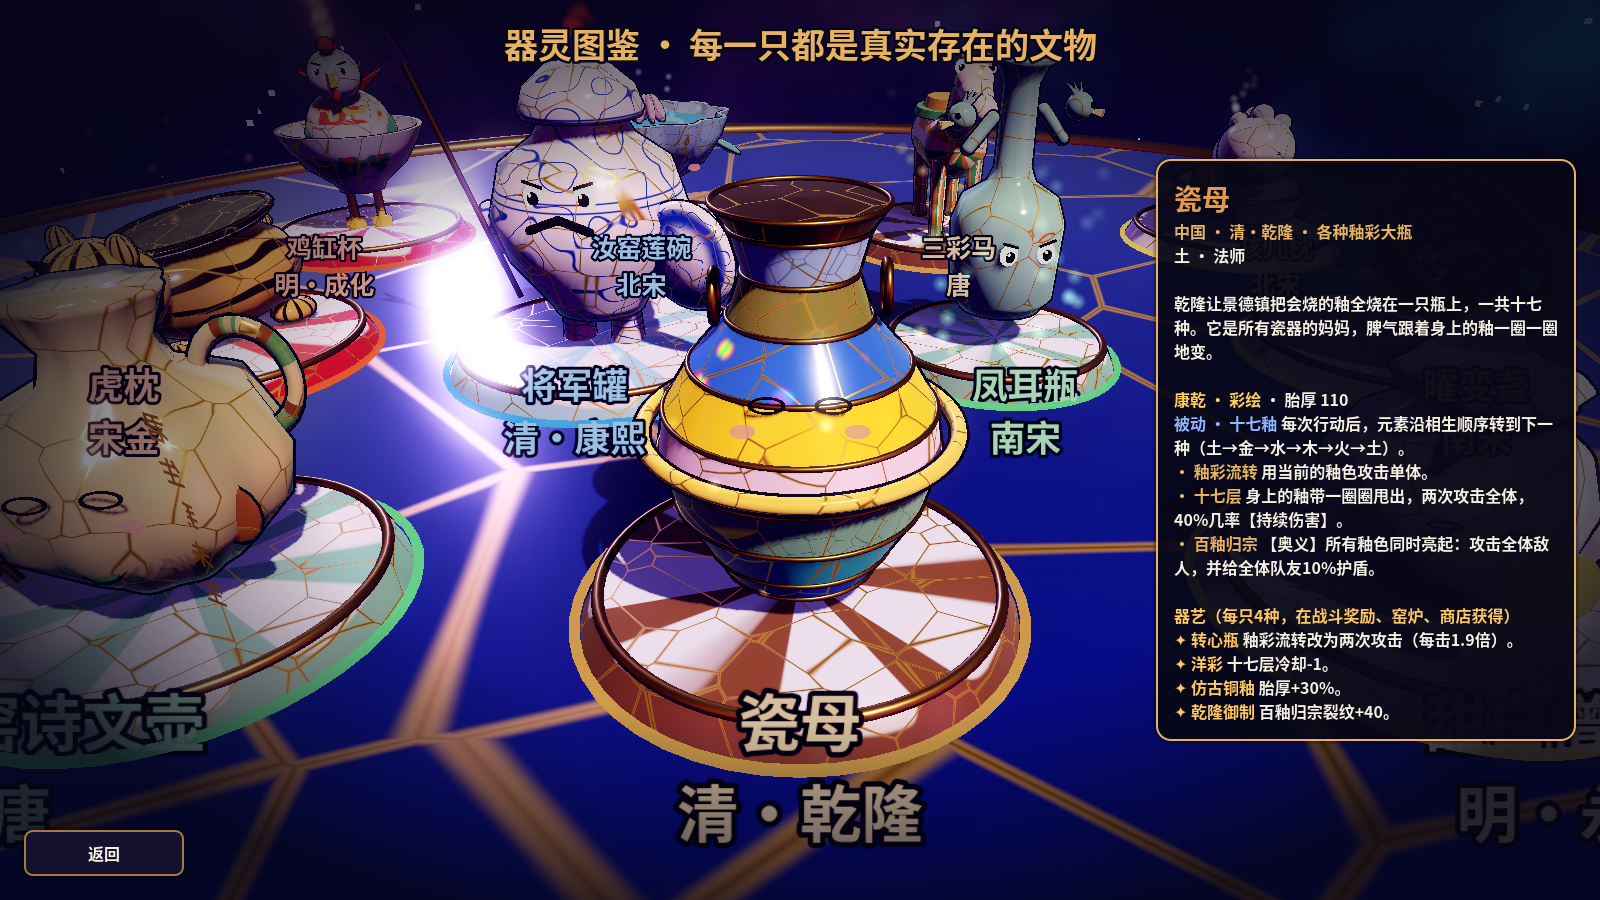
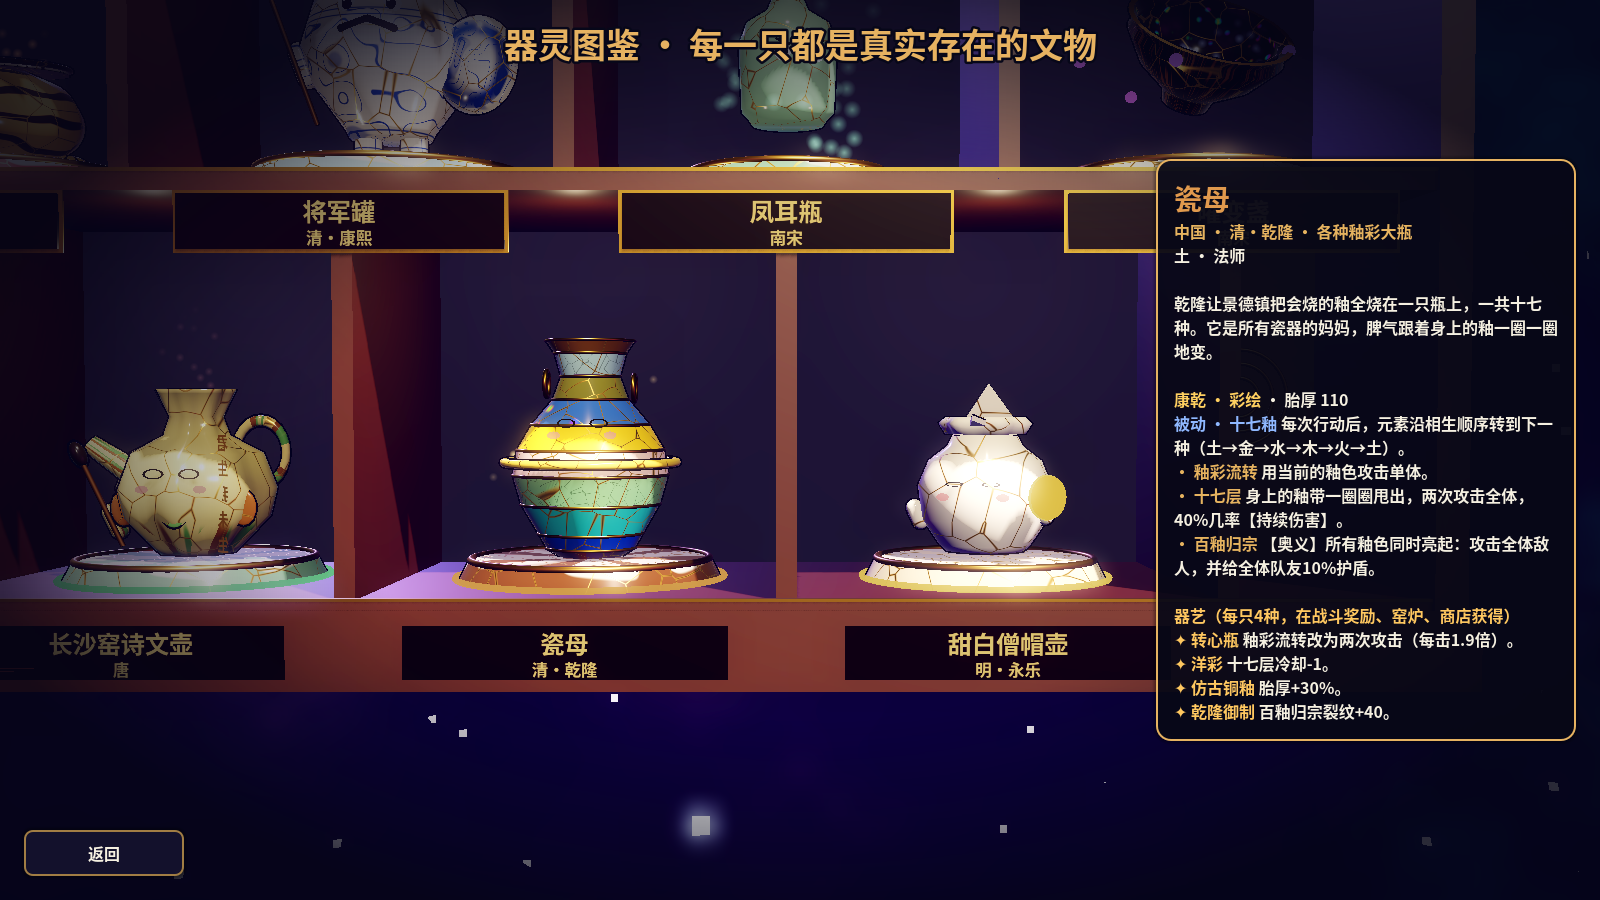
Codex: redesign as a 博古架 curio cabinet so spirits never overlap
- Every spirit gets its own lit compartment, seen straight on through a long lens
- Lacquer-and-brass plaques hang under each shelf with name and era, shrunk to fit
- Short rows are centred and flanked by lattice panels; clicking zooms into a
  compartment, clicking empty space or right-clicking steps back

Claude-Session: https://claude.ai/code/session_013CHDvVtDkAtPABTnwLZbTP

diff --git a/README.md b/README.md
@@ -12,7 +12,7 @@ A playable **one-run vertical slice** (~15–20 min) of a roguelite monster-coll
 | ![map](docs/map_zh.png) | ![mend](docs/mend_zh.png) |
 | **首领战：意图、裂纹、相生 · Boss: intents, crack, chains** | **奖励：器艺或釉片 · Reward: upgrade or shard** |
 | ![battle](docs/battle_en.png) | ![reward](docs/reward_en.png) |
-| **规则页：五行 · 崩裂 · 相生 · Rules page** | **器灵图鉴：羁绊与器艺 · Codex: traits & upgrades** |
+| **规则页：五行 · 崩裂 · 相生 · Rules page** | **器灵图鉴（博古架）：羁绊与器艺 · Codex cabinet: traits & upgrades** |
 | ![rules](docs/rules_zh.png) | ![codex](docs/codex_zh.png) |
 
 ## 运行 · Run
